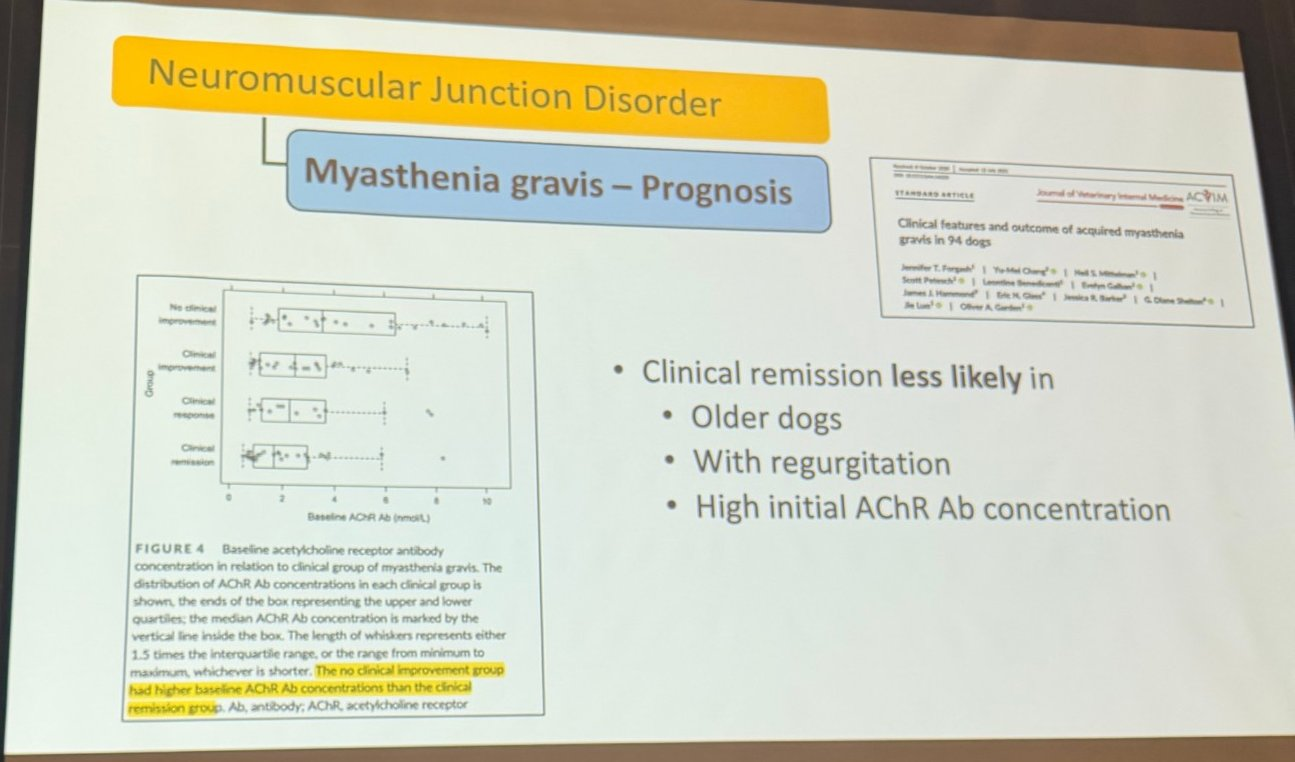
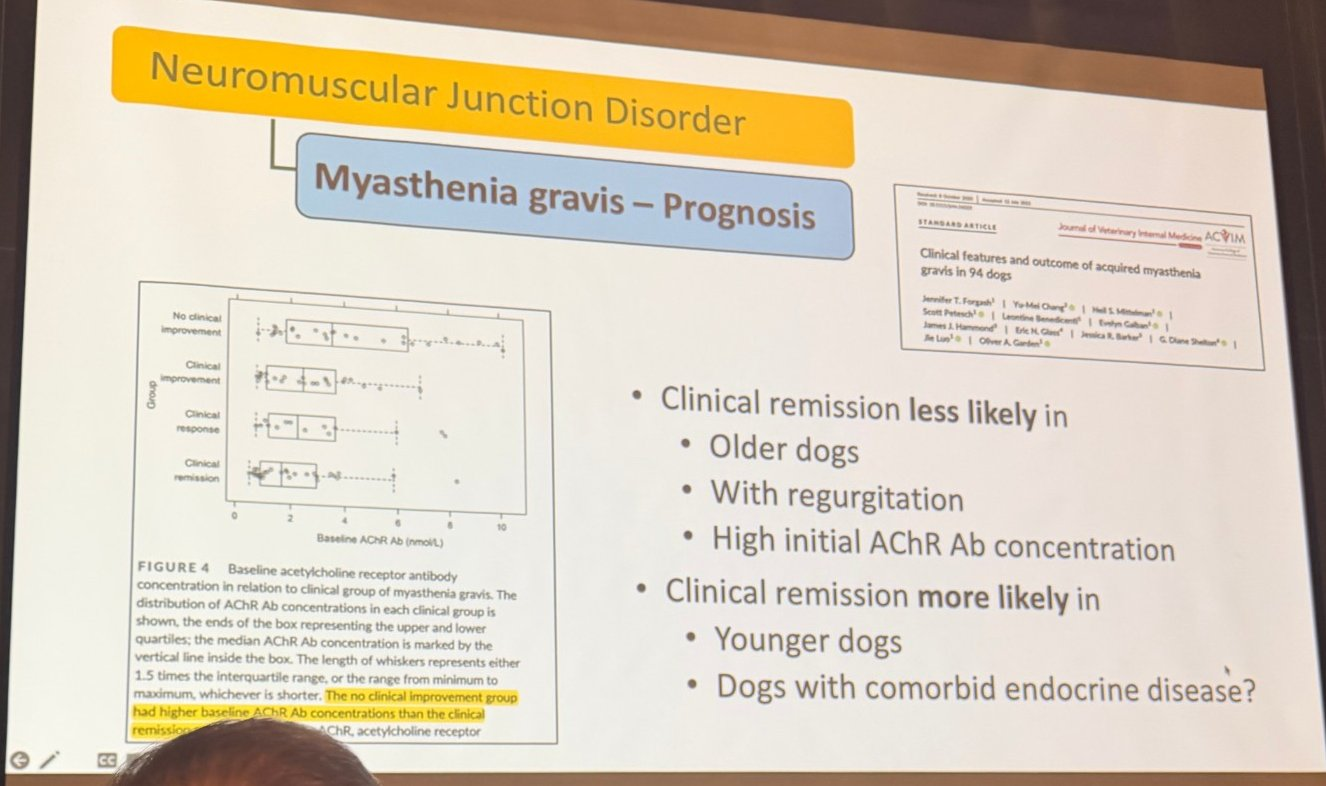
FASAVA 02 全身無力：重症肌無力預後補上較易緩解因子、追蹤與死亡率、新分類各組預後

Changed region(s): [[0.0, 0.0, 1.0, 1.0]]

diff --git a/fasava-2026/lmn-generalized-weakness.html b/fasava-2026/lmn-generalized-weakness.html
@@ -1187,7 +1187,7 @@
         <p class="p"><span class="src src-add">💡</span> 補充：
           <br>• 好記的口訣是 <strong>SLUDGE</strong>（流涎、流淚、排尿、排便、腸胃不適、嘔吐）加上 DUMBBELLS 裡的心搏過緩與支氣管收縮。過量時也可能出現肌肉顫動，甚至<strong>無力加重</strong>（菸鹼型作用），和 MG 本身的無力很難分；不確定時先減量。<strong>Atropine</strong> 可拮抗蕈毒鹼型症狀。
           <br>• 「免疫抑制？？」的爭議：類固醇剛開始可能讓無力<strong>暫時惡化</strong>，且有<strong>吸入性肺炎</strong>時會增加感染風險；所以多數先用 pyridostigmine，反應不佳再低劑量開始免疫抑制（或用 azathioprine、mycophenolate）。
-          <br>• 狗約 <strong>89%</strong> 在平均 6 個月內<strong>自發緩解</strong>（Shelton 1999）：要定期複驗 AChR 抗體，降回正常即可嘗試停藥。胸腺瘤型則不會自發緩解。（下方 Forgash 2021 的數字低很多，見預後。）</p>
+          <br>• 狗約 <strong>89%</strong> 在平均 6 個月內<strong>自發緩解</strong>（Shelton and Lindstrom 2001）：要定期複驗 AChR 抗體，降回正常即可嘗試停藥。胸腺瘤型則不會自發緩解。（下方 Forgash 2021 的數字低很多，見預後。）</p>
 
         <h4><span class="src src-photo">📸 現場</span> 預後</h4>
         <figure class="fig">
@@ -1221,7 +1221,39 @@
           <li>有<strong>逆流</strong>（巨食道）</li>
           <li><strong>初始 AChR 抗體濃度高</strong>：「沒有改善」組的初始抗體濃度高於「臨床緩解」組（Figure 4 標黃）。</li>
         </ul>
-        <p class="p"><span class="src src-add">💡</span> 診斷時的抗體數值也有預後意義，可以寫進病歷、用來和飼主討論。逆流代表巨食道，吸入性肺炎風險高，是預後差的直接原因。</p>
+        <p class="p"><strong>較容易臨床緩解</strong>：</p>
+        <ul class="notes">
+          <li><strong>年輕</strong>的狗</li>
+          <li>合併<strong>內分泌疾病</strong>的狗？（講者打問號）</li>
+        </ul>
+        <p class="p"><span class="src src-add">💡</span> 診斷時的抗體數值也有預後意義，可以寫進病歷、用來和飼主討論。逆流代表巨食道，吸入性肺炎風險高，是預後差的直接原因。合併內分泌病（如甲狀腺低下）較易緩解，可能是治療潛在疾病後 MG 也跟著改善。</p>
+
+        <h4><span class="src src-photo">📸 現場</span> 預後與治療追蹤（另一張投影片）</h4>
+        <p class="muted">這張照片拍到兩張投影片切換中的重疊畫面，以下依可辨識的文字整理。</p>
+        <ul class="notes">
+          <li><strong>重複驗 AChR 抗體效價</strong>來指引治療方向。</li>
+          <li>免疫抑制治療要<strong>逐漸</strong>減量。</li>
+          <li>早期預後<strong>保留</strong>：
+            <ul class="notes">
+              <li>治療反應差者，<strong>2 週內死亡率 50%</strong>。</li>
+              <li><strong>1 年死亡率 40%</strong>。</li>
+            </ul>
+          </li>
+          <li>自發緩解（Shelton and Lindstrom 2001）。</li>
+        </ul>
+
+        <h4><span class="src src-photo">📸 現場</span> 新分類方式：臨床表現與預後</h4>
+        <figure class="fig">
+          <img src="photos/02-mg-new-class-prognosis-live.jpg" alt="重症肌無力新分類各組的年齡、巨食道與存活曲線" loading="lazy">
+          <figcaption>📸 New Classification Approach: C/S and Prognosis?；中＝各組年齡，右上＝各組存活曲線，右下＝有無食道無力的存活曲線</figcaption>
+        </figure>
+        <ul class="notes">
+          <li><strong>胸腺瘤組</strong>的狗<strong>年紀較大</strong>；<strong>血清陰性組</strong>的狗比全身組<strong>年輕</strong>。</li>
+          <li>血清陰性組<strong>較少有巨食道</strong>（和全身組相比）。</li>
+          <li>有<strong>胸腺瘤</strong>或<strong>食道無力</strong>時，<strong>存活時間縮短</strong>。</li>
+          <li><strong>沒有食道無力</strong>時，較容易達到緩解。</li>
+        </ul>
+        <p class="p"><span class="src src-add">💡</span> 綜合兩篇研究：預後最關鍵的是<strong>食道</strong>（巨食道／逆流 → 吸入性肺炎）和<strong>胸腺瘤</strong>。初診就該拍胸腔 X 光同時看這兩件事，並依此和飼主討論預後與照護強度。</p>
       </div>
 
       <div class="subsection">
